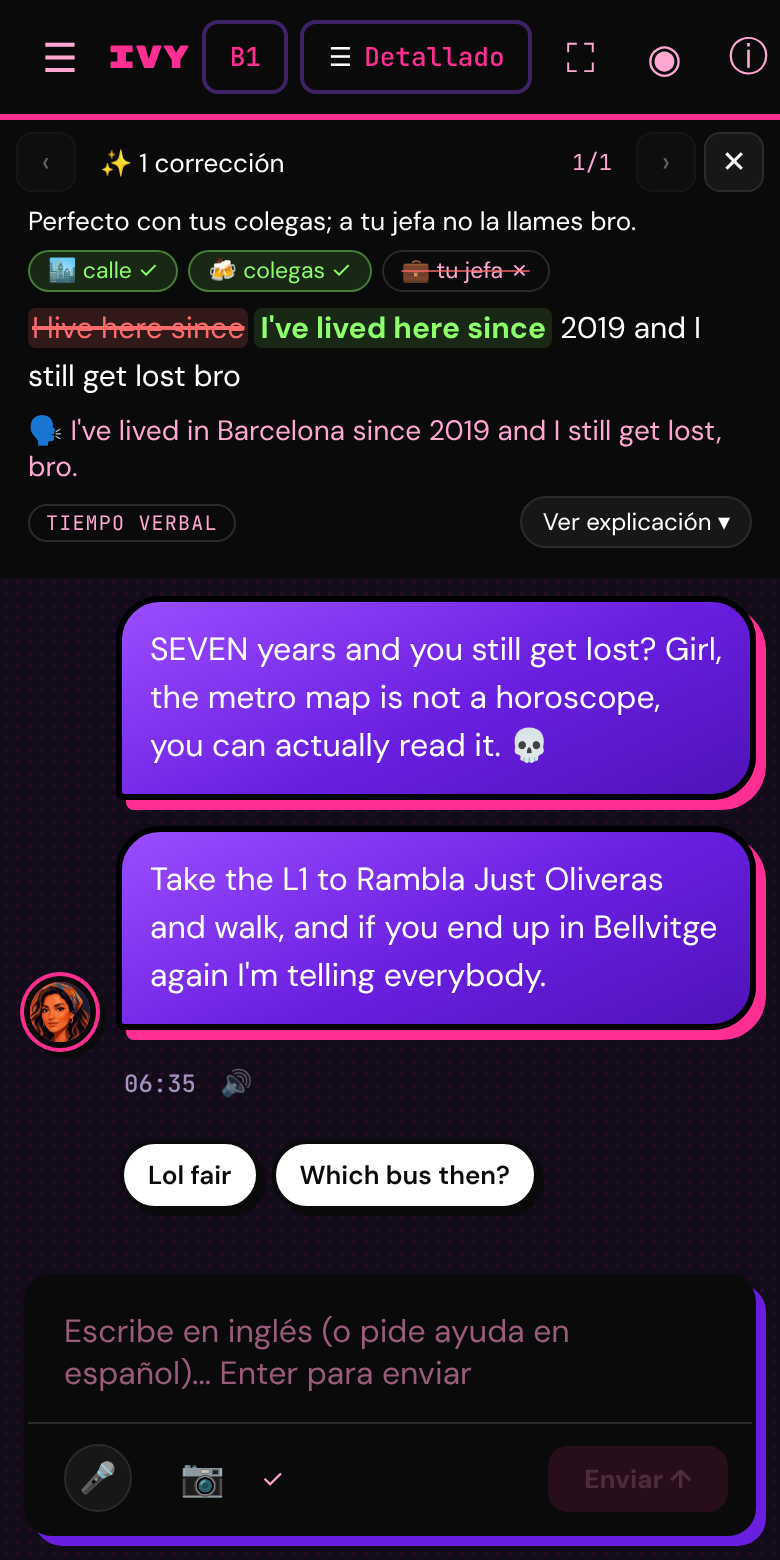
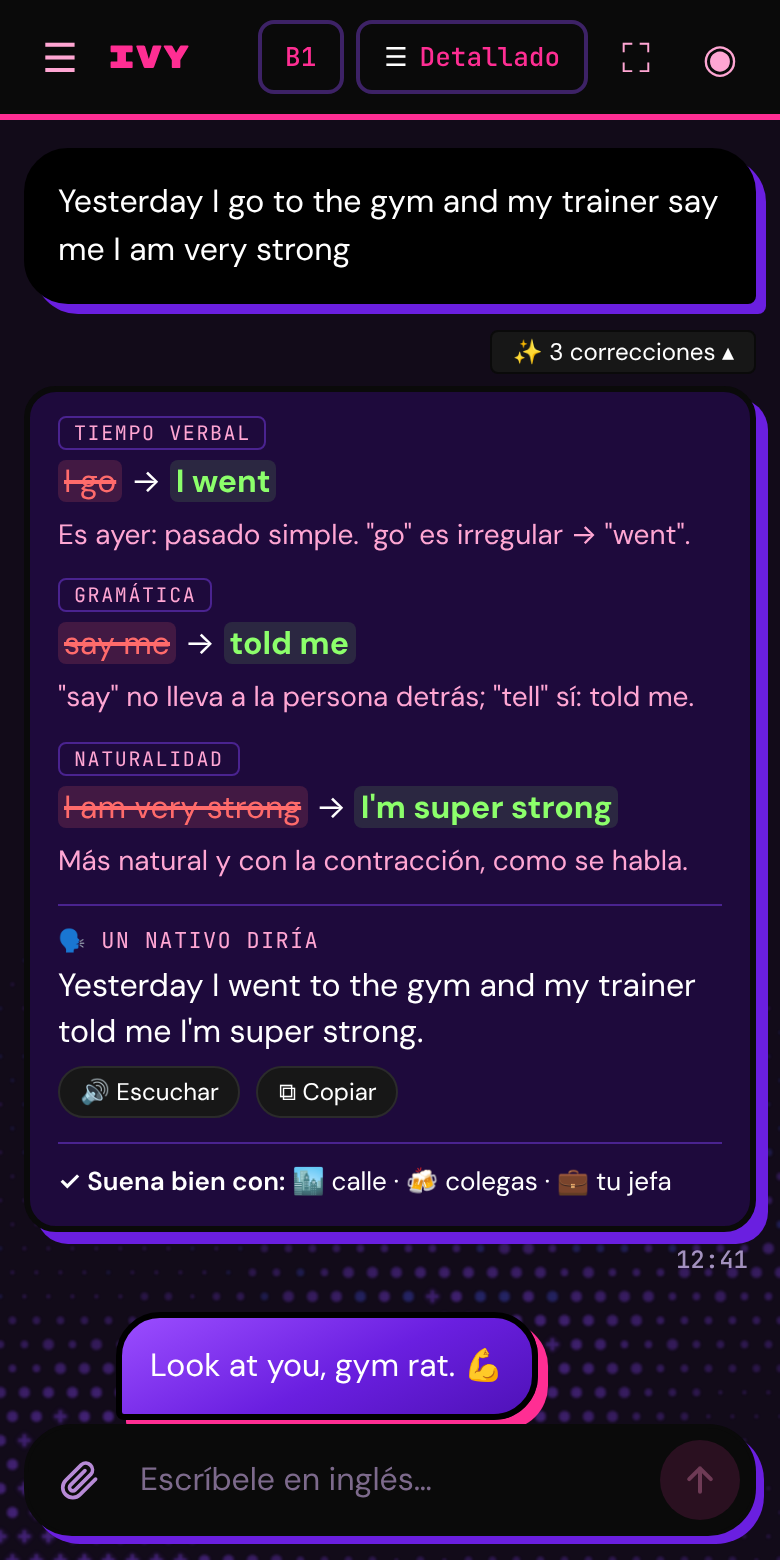
Web: capturas nuevas

diff --git a/index.html b/index.html
@@ -78,7 +78,7 @@
   .card b { display: block; font-size: 17px; margin-bottom: 4px; }
   .card span { color: var(--soft); font-size: 15px; }
   .ico { font-size: 24px; display: block; margin-bottom: 8px; }
-  .shots { display: grid; grid-template-columns: repeat(4, minmax(0, 1fr)); gap: 18px; }
+  .shots { display: grid; grid-template-columns: repeat(3, minmax(0, 1fr)); gap: 22px; max-width: 900px; margin-left: auto; margin-right: auto; }
   .shots figure { margin: 0; }
   .shots img { width: 100%; border-radius: 18px; border: 3px solid var(--ink); display: block; box-shadow: 6px 6px 0 var(--ink); }
   .shots figure:nth-child(odd) img { box-shadow: 6px 6px 0 var(--violet); }
@@ -245,10 +245,12 @@
       <div class="card"><span class="ico">🪧</span><b data-es>Modo pantalla y fondo vivo</b><b data-en>Screen mode and living background</b><span data-es>Su frase como un cartel de la calle, diseñada para cada momento; agita el móvil y te suelta algo sobre tu vida. Detrás del chat, una trama de luces que piensa con ella, responde con ella y se pone roja cuando se cabrea.</span><span data-en>Her line as a street poster, designed for the moment; shake the phone and she drops something about your life. Behind the chat, a pattern of lights that thinks with her, answers with her and turns red when she gets mad.</span></div>
     </div>
     <div class="shots" style="margin-top:22px">
-      <figure><img src="img/chat.png" alt="" loading="lazy"><figcaption data-es>Correcciones</figcaption><figcaption data-en>Corrections</figcaption></figure>
-      <figure><img src="img/pantalla.png" alt="" loading="lazy"><figcaption data-es>Modo pantalla</figcaption><figcaption data-en>Screen mode</figcaption></figure>
-      <figure><img src="img/despensa.png" alt="" loading="lazy"><figcaption data-es>Despensa en el chat</figcaption><figcaption data-en>Pantry in the chat</figcaption></figure>
-      <figure><img src="img/tiempos.png" alt="" loading="lazy"><figcaption data-es>Tiempos verbales</figcaption><figcaption data-en>Verb tenses</figcaption></figure>
+      <figure><img src="img/chat.png" alt="Ivy corrige un mensaje: tres cambios con su porqué, la frase nativa y dónde suena bien" loading="lazy"><figcaption data-es>Correcciones</figcaption><figcaption data-en>Corrections</figcaption></figure>
+      <figure><img src="img/correo.png" alt="Tarjeta del correo en el chat, con un recibo apuntado en Economía" loading="lazy"><figcaption data-es>Tu correo, explicado</figcaption><figcaption data-en>Your email, explained</figcaption></figure>
+      <figure><img src="img/llamada.png" alt="Ficha para la llamada de una empresa en LinkDeed" loading="lazy"><figcaption data-es>Me están llamando</figcaption><figcaption data-en>They're calling me</figcaption></figure>
+      <figure><img src="img/despensa.png" alt="La app Despensa con lo que caduca" loading="lazy"><figcaption data-es>Despensa</figcaption><figcaption data-en>Pantry</figcaption></figure>
+      <figure><img src="img/pantalla.png" alt="Modo pantalla: la frase de Ivy como un cartel" loading="lazy"><figcaption data-es>Modo pantalla</figcaption><figcaption data-en>Screen mode</figcaption></figure>
+      <figure><img src="img/tiempos.png" alt="Ficha del present perfect con su fórmula y comparado con el español" loading="lazy"><figcaption data-es>Tiempos verbales</figcaption><figcaption data-en>Verb tenses</figcaption></figure>
     </div>
   </section>
 
